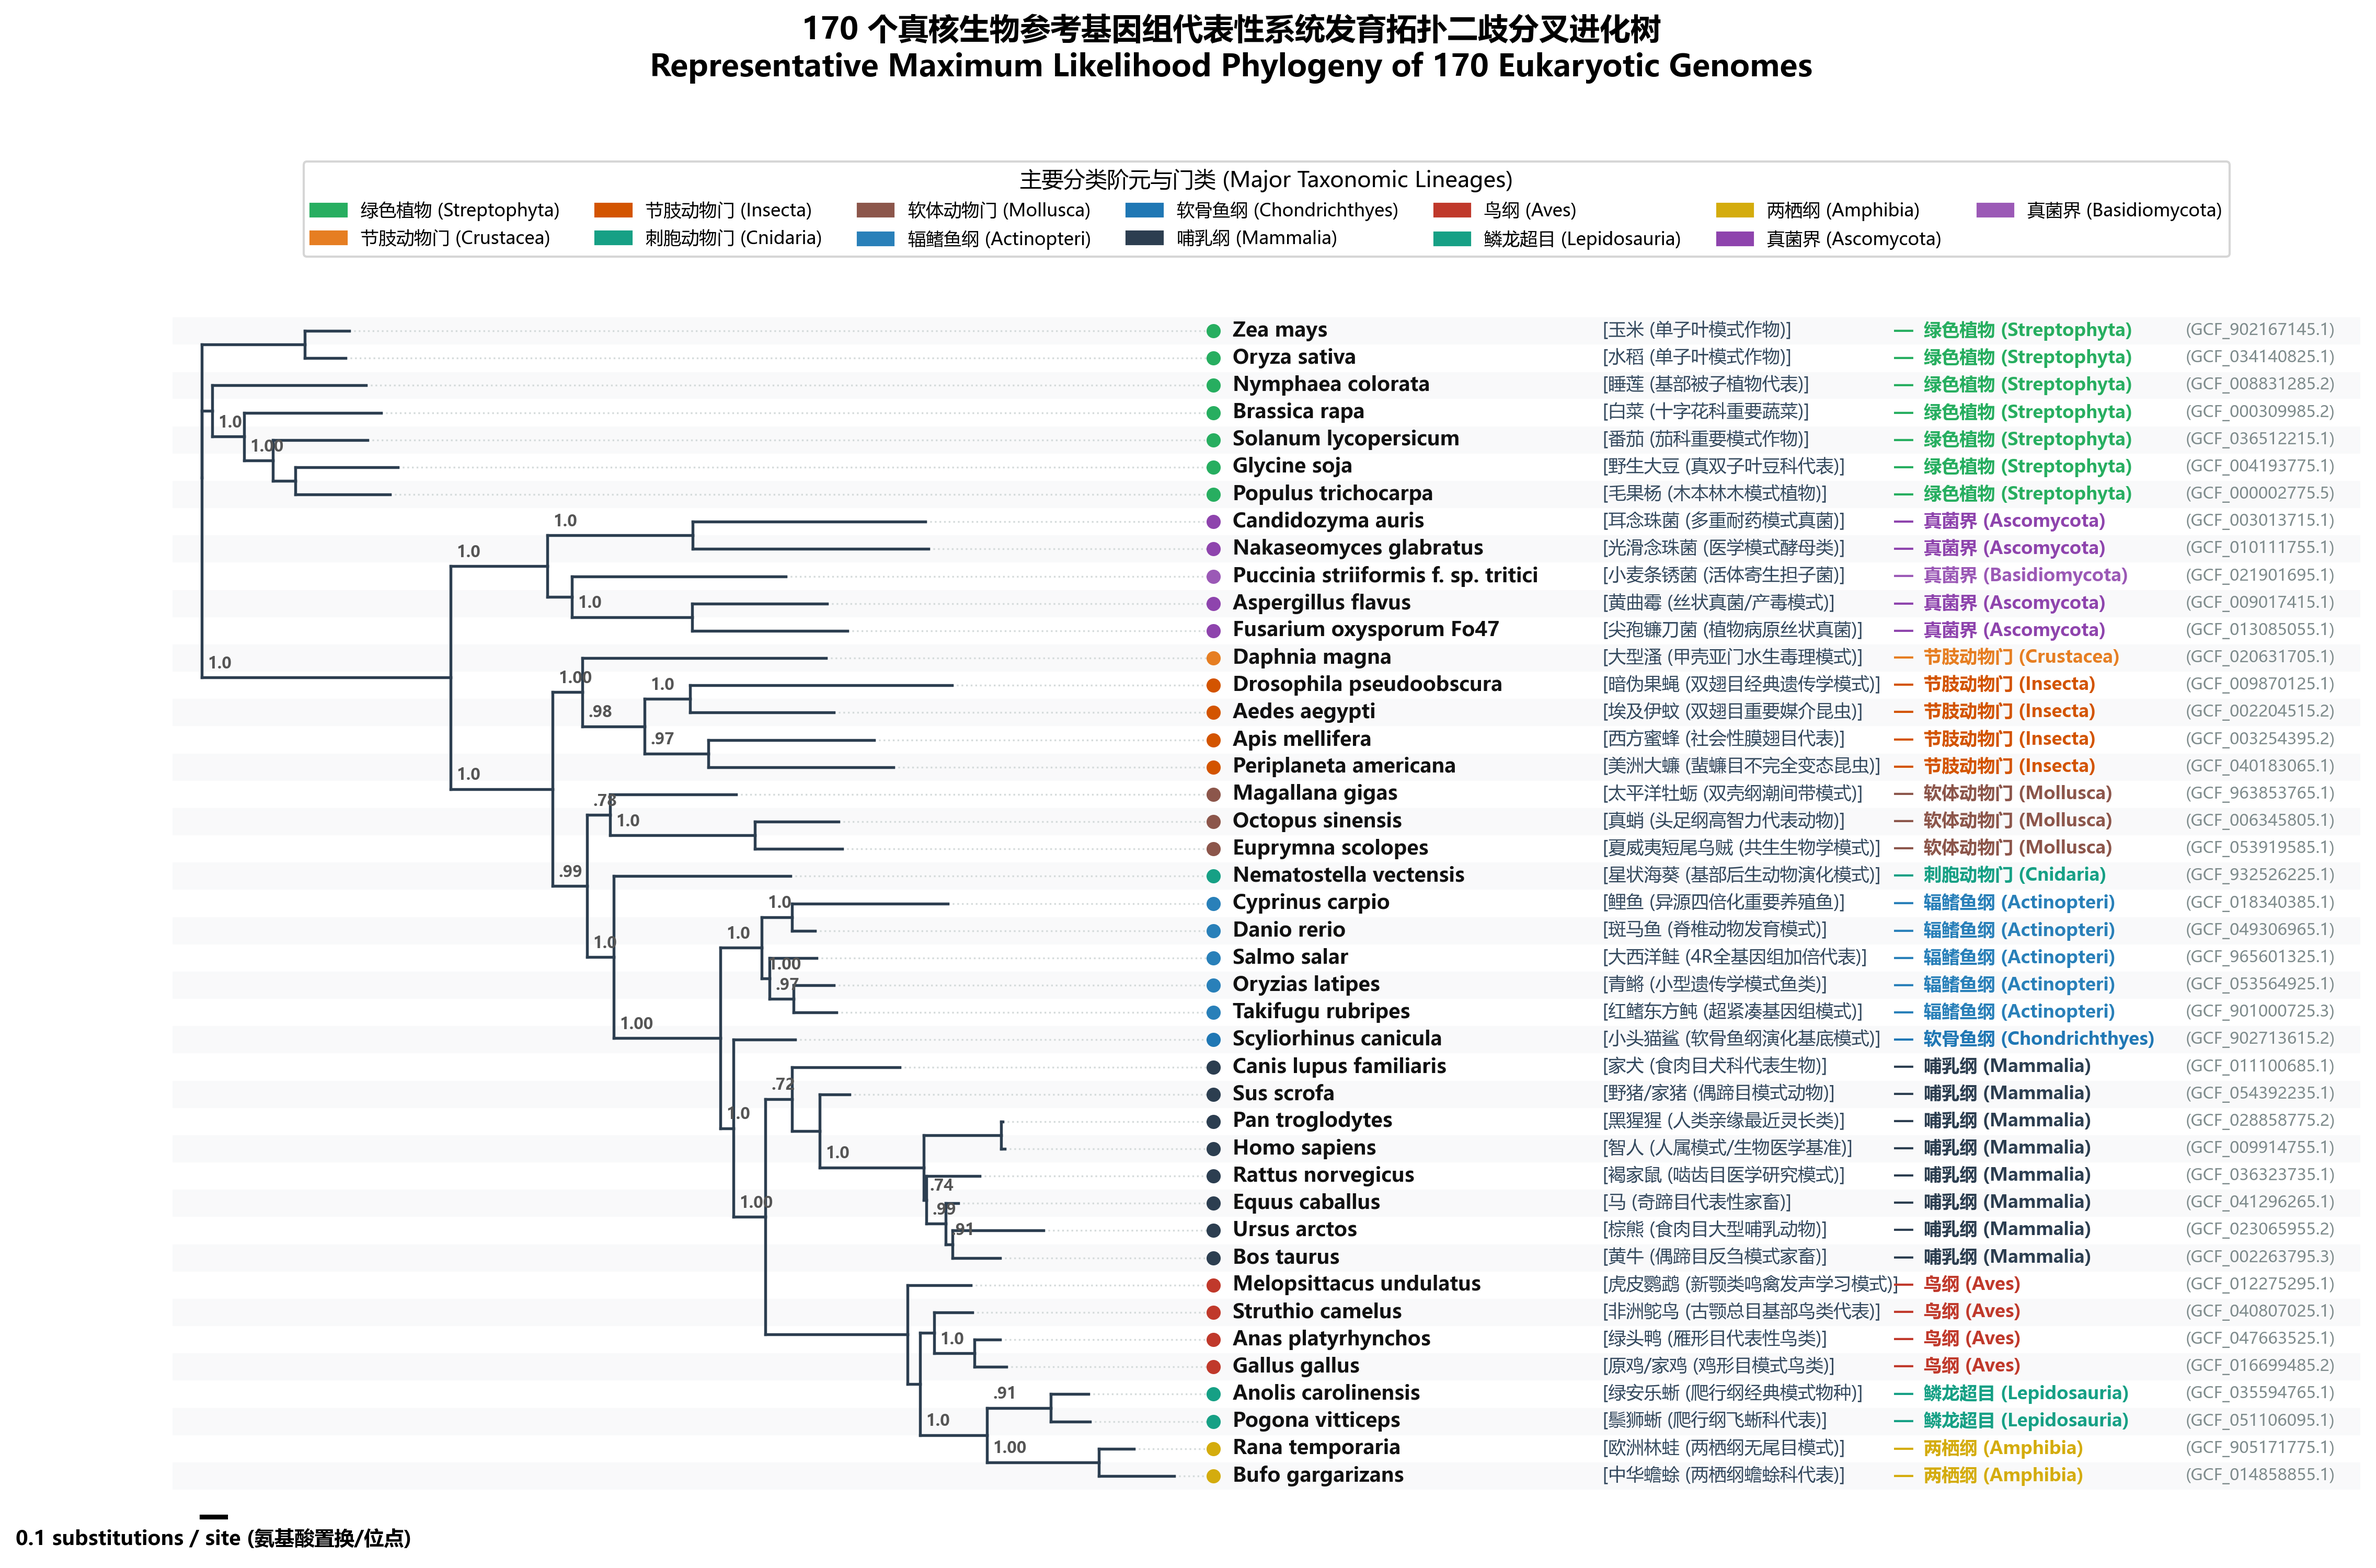
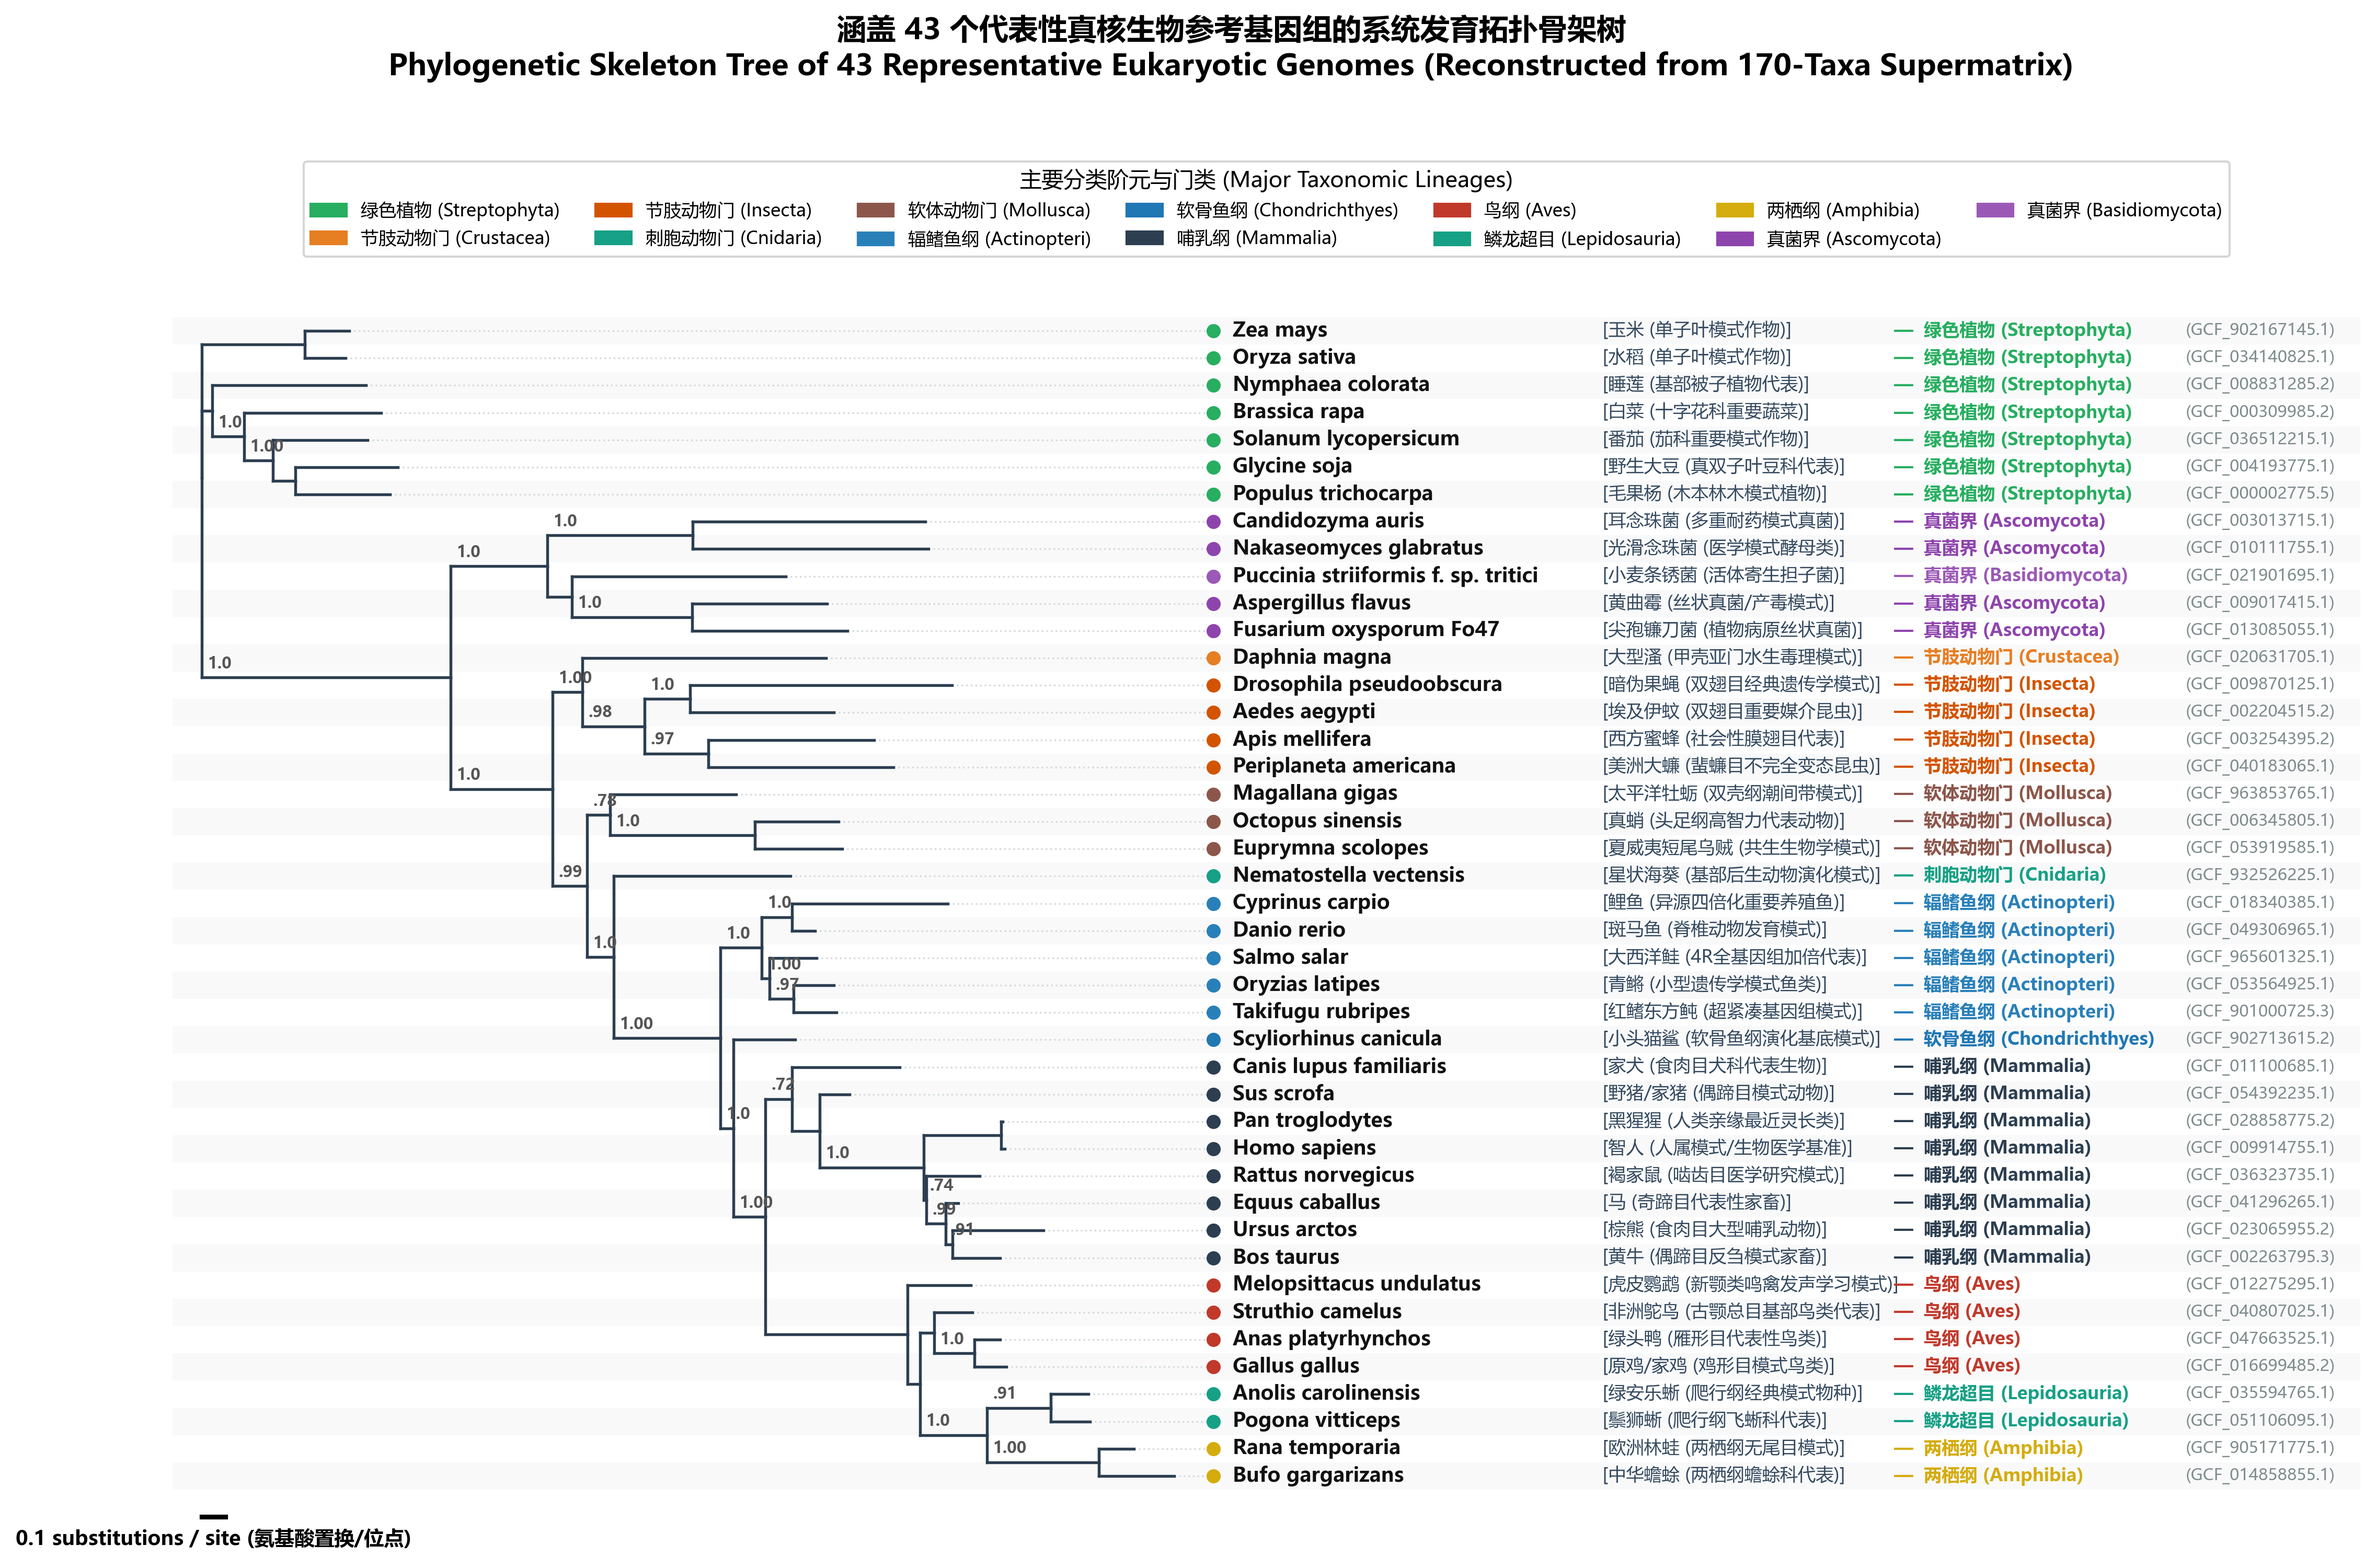
docs: refine Figure 3.11 caption and title to 43-taxa skeleton tree

Changed region(s): [[0.1562, 0.0, 0.8748, 0.062]]

diff --git a/README.md b/README.md
@@ -15,7 +15,7 @@
    - 包含基于 NCBI Assembly 数据库 E-utilities API 审计的完整图表与数据表 (`正文图表(Figures)/图3.1 - 图3.5` 及 `统计数据汇总表(stats)/ncbi_tgs_...csv`)，定量展示长读长测序（PacBio HiFi/CLR、Oxford Nanopore ONT）组装数据的历年提交趋势、完成度分层及生态位分布。
 2. **170 个代表性真核生物基因组质量评估与系统发育演化分析**：
    - 包含 QUAST 连续性与 BUSCO 完整度评估数据集及对比图表 (`图3.6 - 图3.10`)；
-   - 包含用于重构 170 物种系统发育拓扑树的 646 KB 氨基酸多序列比对超级矩阵 (`concatenated_alignment_170.faa`) 与全景环形进化树 (`图3.11` 及 `species_phylogeny_tree_170_circular.pdf`)；
+   - 包含用于重构 170 物种系统发育拓扑树的 646 KB 氨基酸多序列比对超级矩阵 (`concatenated_alignment_170.faa`)、涵盖 43 个代表性真核生物的系统发育拓扑骨架树 (`图3.11`) 及 170 物种全景环形进化树 (`species_phylogeny_tree_170_circular.pdf`)；
    - 包含基于 NCBI RefSeq 官方审校 CDS 最长转录本代表序列的代表性物种旁系同源基因 Ka/Ks 选择压力数据集 (`表3.1_代表性物种旁系同源重复基因KaKs选择压力统计汇总表.csv` 及 `kaks_species_summary.csv`, `kaks_results_all.csv`)；
    - 包含 181 个共有 BUSCO 单拷贝核心直系同源基因的密码子对齐 (PAL2NAL) 与基于 Nei-Gojobori (NG86) 双重未饱和过滤 (\( K_a < 0.75, 0 < K_s < 0.75 \)) 的各大分类纲探索性试算数据集 (`图3.12`、`181_BUSCO_Orthologs_KaKs_Summary.csv`、`表3.2_各大纲类群BUSCO直系同源基因KaKs选择压力统计汇总表.csv` 及 `real_class_ortholog_kaks_summary.csv`)。
 
